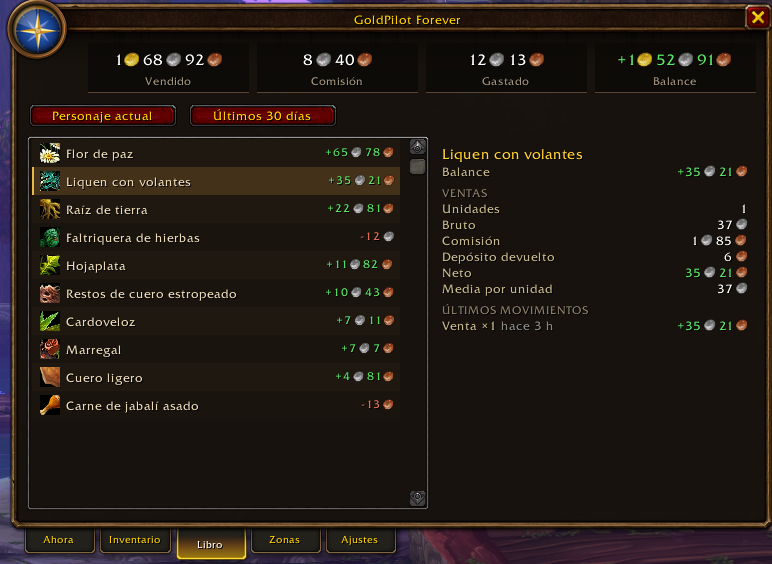
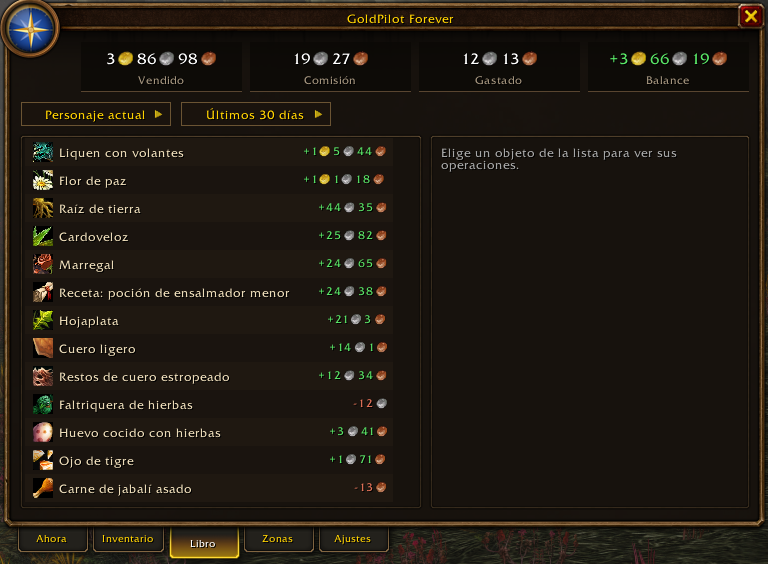
Capturas de Libro y del tooltip con el aspecto actual

Changed region(s): [[0.0, 0.0, 1.0, 1.0], [0.5625, 0.0904, 0.75, 0.1809]]

diff --git a/docs/CURSEFORGE.md b/docs/CURSEFORGE.md
@@ -16,7 +16,7 @@ Guía para rellenar el formulario de creación (no se pega entera: cada bloque v
 | Enlaces | Código fuente: `https://github.com/warcrafted-server/goldpilot` (solo si el repositorio es público); incidencias: `…/issues` (idem) |
 | Donaciones | Ninguna |
 | Dependencias | Ninguna obligatoria; TomTom es opcional (marca la siguiente parada de la ruta) |
-| Capturas | En `docs/img/capturas/`, en este orden: `tooltip.png`, `ahora.png`, `inventario.png`, `libro.png`, `zonas.png`, `ruta-mapa.png`. Recortadas a la ventana y sin nombres de personajes. `libro.png` y `tooltip.png` son de la 0.15.2 (botones rojos); `zonas.png` y `ruta-mapa.png` se hicieron con las semillas locales de desarrollo, así que muestran más puntos de los que tendrá una instalación nueva |
+| Capturas | En `docs/img/capturas/`, en este orden: `tooltip.png`, `ahora.png`, `inventario.png`, `libro.png`, `zonas.png`, `ruta-mapa.png`. Recortadas a la ventana y sin nombres de personajes. `zonas.png` y `ruta-mapa.png` se hicieron con las semillas locales de desarrollo, así que muestran más puntos de los que tendrá una instalación nueva |
 
 ## Summary (English, máx. 250 caracteres)
 

diff --git a/CHANGELOG.md b/CHANGELOG.md
@@ -2,6 +2,11 @@
 
 Formato basado en [Keep a Changelog](https://keepachangelog.com/es-ES/1.1.0/) y [SemVer](https://semver.org/lang/es/).
 
+## [Sin publicar]
+
+### Cambiado
+- Capturas de Libro y del tooltip con el aspecto actual y sin nombres de personajes.
+
 ## [0.15.6] - 2026-11-25
 
 Parche: el paquete deja de incluir datos de terceros; la ruta funciona igual con los nodos propios.
